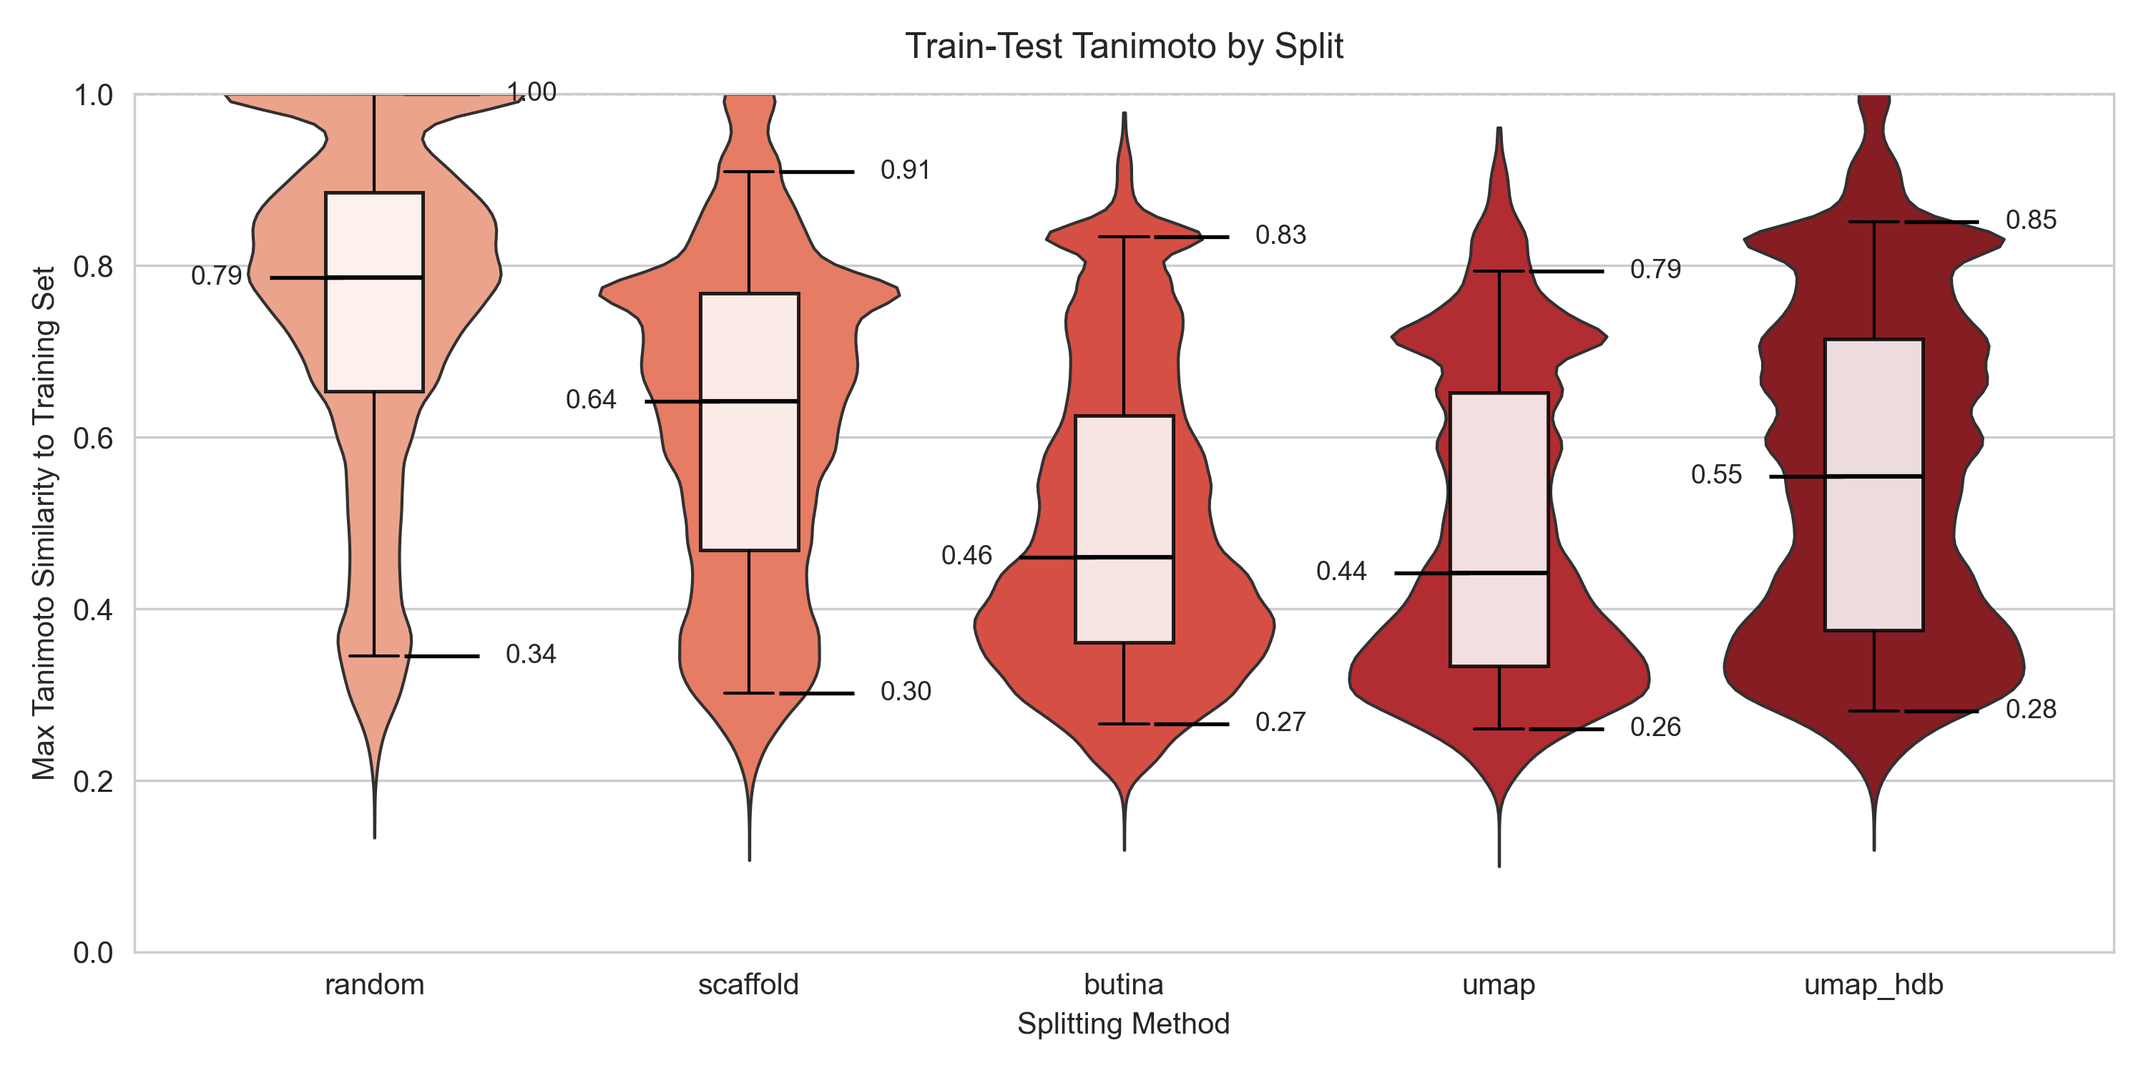
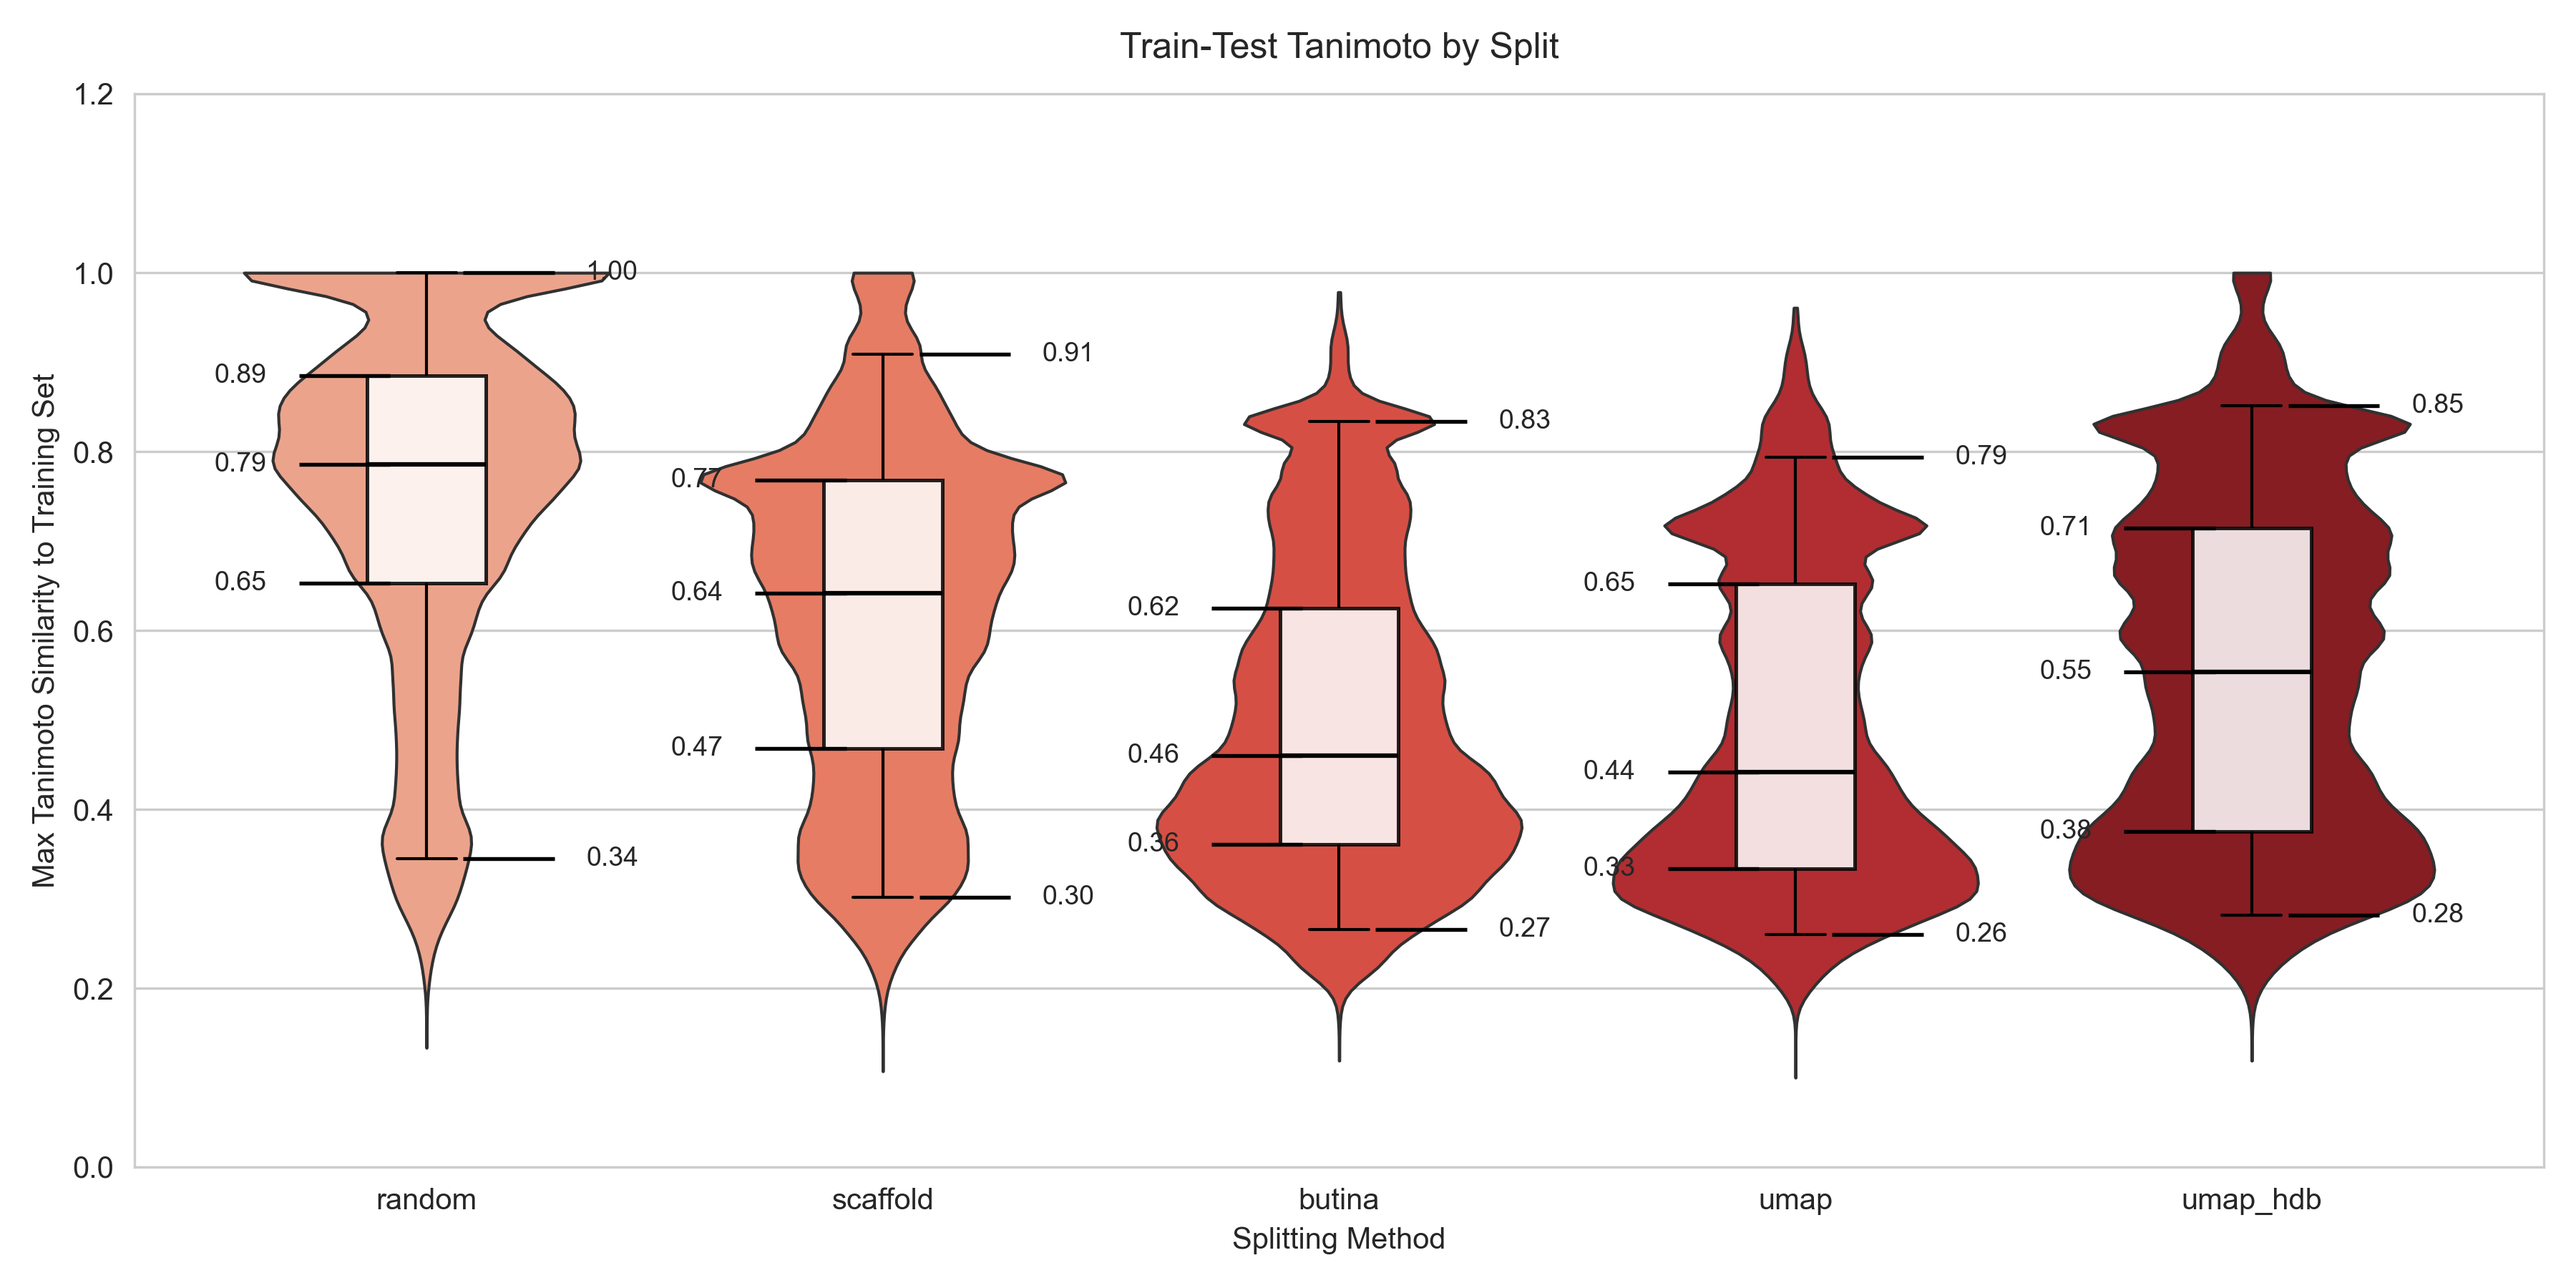
new visualisations for tanimoto similarity violins

diff --git a/p2_models/src/tanimoto_viz2.py b/p2_models/src/tanimoto_viz2.py
@@ -1,4 +1,5 @@
 # Conda activate molml 
+
 # Imports
 from pathlib import Path
 import numpy as np
@@ -9,7 +10,7 @@ from matplotlib import cm
 
 from rdkit import Chem, DataStructs, RDLogger
 from rdkit.Chem import rdFingerprintGenerator as FPG
-from rdkit.Chem import AllChem  # fallback path
+from rdkit.Chem import AllChem
 
 RDLogger.DisableLog("rdApp.warning")
 
@@ -38,12 +39,12 @@ try:
         m = Chem.MolFromSmiles(smi)
         return FP_GEN.GetFingerprint(m)
 except Exception as e:
-    print(f"[WARN] MorganGenerator unavailable ({e}). Falling back to AllChem.GetMorganFingerprintAsBitVect.")
+    print(f"[WARNING] MorganGenerator unavailable ({e}). Falling back to AllChem.GetMorganFingerprintAsBitVect.")
     def ecfp4_bits(smi: str):
         m = Chem.MolFromSmiles(smi)
         return AllChem.GetMorganFingerprintAsBitVect(m, int(RADIUS), nBits=int(N_BITS))
 
-EXCLUDE_IDENTICAL = True  # drop exact SMILES matches when computing nearest train neighbor (????)
+EXCLUDE_IDENTICAL = True  # drop exact SMILES matches when computing nearest train neighbor
 
 # Output
 FIG_DIR = DATA_ROOT / "figures"
@@ -119,15 +120,17 @@ def main():
 
         # Stats for annotation
     stats = (df.groupby("method")["max_tani"]
-            .agg(p05=lambda x: x.quantile(0.05),
-                    median="median",
-                    p95=lambda x: x.quantile(0.95),
-                    n="count")
-            .reset_index())
+             .agg(p05=lambda x: x.quantile(0.05),
+                  q1 =lambda x: x.quantile(0.25),
+                  median="median",
+                  q3 =lambda x: x.quantile(0.75),
+                  p95=lambda x: x.quantile(0.95),
+                  n="count")
+             .reset_index())
 
-    # Print summary (use p05, not p5)
-    print("\nPer-split summary (p05 / median / p95 / n):")
-    print(stats[["method", "n", "p05", "median", "p95"]].to_string(
+    # Print summary (of q1, q3, median, p05, and p95)
+    print("\nPer-split summary (p05 / q1 / median / q3 / p95 / n):")
+    print(stats[["method", "n", "p05", "q1", "median", "q3", "p95"]].to_string(
         index=False,
         float_format=lambda v: f"{v:.3f}" if isinstance(v, float) else str(v)
     ))
@@ -148,7 +151,7 @@ def main():
     sns.despine()
 
     # Create figure - figure size
-    fig, ax = plt.subplots(figsize=(10, 5))
+    fig, ax = plt.subplots(figsize=(12, 6))
 
     # Create figure - violin
     sns.violinplot(
@@ -171,11 +174,10 @@ def main():
     # Labels
     ax.set_xlabel("Splitting Method")
     ax.set_ylabel("Max Tanimoto Similarity to Training Set")
-    ax.set_ylim(0, 1.0)
-    ax.axhline(1.0, ls="--", lw=0.8, c="black", alpha=0.6)
+    ax.set_ylim(0, 1.2) # Edit line boundaries (upper limit > max tanimoto of 1)
     ax.set_title("Train-Test Tanimoto by Split", pad=12)
 
-   # Annotate median, 95th and 5th percentile
+   # Annotate q1, q3, median, and 5th/95th percentile
     x_pos = {m: i for i, m in enumerate(order)}
     for _, r in stats.iterrows():
         m = r["method"]
@@ -183,20 +185,26 @@ def main():
             continue
         x   = x_pos[m]
         p05 = float(r["p05"])
+        q1  = float(r["q1"])
         med = float(r["median"])
+        q3  = float(r["q3"])
         p95 = float(r["p95"])
 
-        # median
+        # Median
         ax.hlines(med, x-0.28, x-0.08, colors="black", linewidth=1.3)
         ax.text(x-0.35, med, f"{med:.2f}", ha="right", va="center", fontsize=9)
 
-        # 95th quartile
+        # 5th/95th percentile
         ax.hlines(p95, x+0.08, x+0.28, colors="black", linewidth=1.3)
         ax.text(x+0.35, p95, f"{p95:.2f}", ha="left",  va="center", fontsize=9)
-
-        # 5th quartile
         ax.hlines(p05, x+0.08, x+0.28, colors="black", linewidth=1.3)
         ax.text(x+0.35, p05, f"{p05:.2f}", ha="left",  va="center", fontsize=9)
+
+        # Q1 & Q3
+        ax.hlines(q1, x-0.08, x-0.28, colors="black", linewidth=1.3)
+        ax.text(x-0.35, q1, f"{q1:.2f}", ha="right", va="center", fontsize=9)
+        ax.hlines(q3, x-0.08, x-0.28, colors="black", linewidth=1.3)
+        ax.text(x-0.35, q3, f"{q3:.2f}", ha="right", va="center", fontsize=9)
 
     # Out
     fig.tight_layout()
